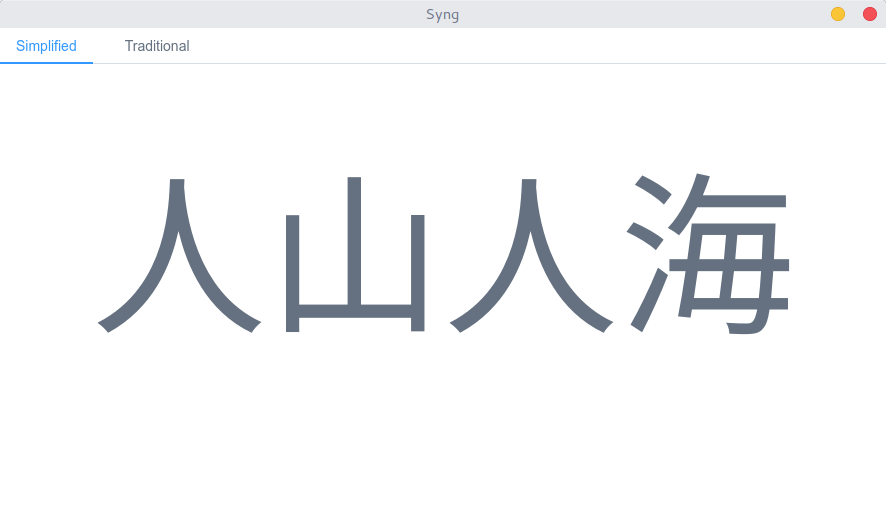
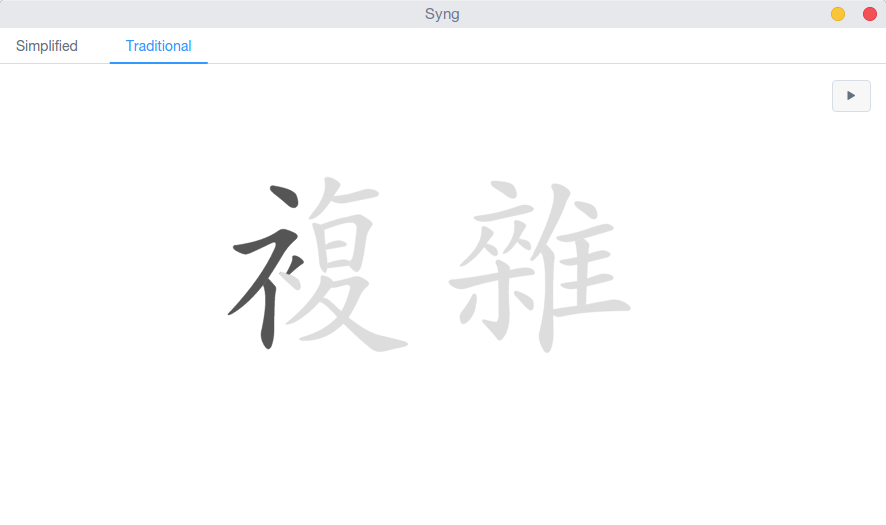
updated website for version 1.1.1

diff --git a/index.html b/index.html
@@ -102,15 +102,13 @@
         </div>
         <div class="row">
           <center>
-            <h3 class="section-title">What's New in Version 1.0.0?</h3>
+            <h3 class="section-title">What's New in Version 1.1.0?</h3>
             <p>
-              Version 1.0.0 is the biggest release of Syng yet! Some new changes include:
+              Version 1.1.0 has several new features and bug fixes, including:
             </p>
             <ul>
-              <li>70% increase in startup time</li>
-              <li>All new user interface</li>
-              <li>New icon</li>
-              <li>Stability improvements</li>
+              <li>Audio Pronunciation</li>
+              <li>Stroke Order Animations</li>
             </ul>
             <p>
               For a full list of changes, please see <a href="https://github.com/sotch-pr35mac/syng/blob/master/CHANGELOG.md">the changelog</a>.
@@ -157,7 +155,7 @@
       <div class="row">
         <div class="four columns">
           <center>
-            <a class="button button-primary download-button" href="https://github.com/sotch-pr35mac/syng/releases/download/v1.0.1/Syng-macOS.dmg" id="download-macos">macOS</a>
+            <a class="button button-primary download-button" href="https://github.com/sotch-pr35mac/syng/releases/download/v1.1.1/Syng-macOS.dmg" id="download-macos">macOS</a>
           </center>
         </div>
         <div class="four columns">
@@ -184,13 +182,13 @@
             <div class="six columns">
               <h6 class="section-title">Linux 64-bit</h6>
               <code class="installer">
-                wget -O- https://goo.gl/ybn3yz | bash
+                wget -O- https://goo.gl/cZCh5c | bash
               </code>
             </div>
             <div class="six columns">
               <h6 class="section-title">Linux 32-bit</h6>
               <code class="installer">
-                wget -O- https://goo.gl/bjguUb | bash
+                wget -O- https://goo.gl/EhCPD9 | bash
               </code>
             </div>
           </div>
@@ -202,12 +200,12 @@
           <div class="row">
             <div class="six columns">
               <center>
-                <a class="button button-primary download-button" href="https://github.com/sotch-pr35mac/syng/releases/download/v1.0.1/Syng-linux-x64.tar.gz">Linux 64-bit</a>
+                <a class="button button-primary download-button" href="https://github.com/sotch-pr35mac/syng/releases/download/v1.1.1/Syng-linux-x64.tar.gz">Linux 64-bit</a>
               </center>
             </div>
             <div class="six columns">
               <center>
-                <a class="button button-primary download-button" href="https://github.com/sotch-pr35mac/syng/releases/download/v1.0.1/Syng-linux-ia32.tar.gz">Linux 32-bit</a>
+                <a class="button button-primary download-button" href="https://github.com/sotch-pr35mac/syng/releases/download/v1.1.1/Syng-linux-ia32.tar.gz">Linux 32-bit</a>
               </center>
             </div>
           </div>
@@ -313,10 +311,10 @@
 			} );
 	</script>
   <script>
-    var win32 = "https://github.com/sotch-pr35mac/syng/releases/download/v1.0.1/Syng-Windows-setup-ia32.exe";
-    var win64 = "https://github.com/sotch-pr35mac/syng/releases/download/v1.0.1/Syng-Windows-setup-x64.exe";
-    var linux32 = "https://github.com/sotch-pr35mac/syng/releases/download/v1.0.1/Syng-linux-ia32.tar.gz";
-    var linux64 = "https://github.com/sotch-pr35mac/syng/releases/download/v1.0.1/Syng-linux-x64.tar.gz";
+    var win32 = "https://github.com/sotch-pr35mac/syng/releases/download/v1.1.1/Syng-Windows-setup-ia32.exe";
+    var win64 = "https://github.com/sotch-pr35mac/syng/releases/download/v1.1.1/Syng-Windows-setup-x64.exe";
+    var linux32 = "https://github.com/sotch-pr35mac/syng/releases/download/v1.1.1/Syng-linux-ia32.tar.gz";
+    var linux64 = "https://github.com/sotch-pr35mac/syng/releases/download/v1.1.1/Syng-linux-x64.tar.gz";
 
     function downloadReady() {
       swal({

diff --git a/README.md b/README.md
@@ -1,12 +1,12 @@
 # __Syng | 词应__
 ##### Dictionary App | 词典应用
-##### v1.0.1
+##### v1.1.1
 [![Commitizen friendly](https://img.shields.io/badge/commitizen-friendly-brightgreen.svg)](http://commitizen.github.io/cz-cli/)
 
 ---
 
 ## __About__
-Syng is a free, open source, Chinese-To-English and English-To-Chinese Dictionary app that makes it easy to lookup words and phrases quickly. Currently Syng works on macOS, Windows, and Linux systems. 
+Syng is a free, open source, Chinese-To-English and English-To-Chinese Dictionary app that makes it easy to lookup words and phrases quickly. Currently Syng works on macOS, Windows, and Linux systems.
 
 ### Name
 Syng is a stylized spelling of cíyīng, the Pinyin for 词应. 词应 has been shorted from 词典应用, literally translating to Dictionary App.
@@ -20,7 +20,7 @@ Syng is a stylized spelling of cíyīng, the Pinyin for 词应. 词应 has been 
 - ___Bookmarks___
     - Syng allows you to save words and searches to your bookmarks, so that you can reference them later, and even create custom vocab lists.
 - __Offline Support__
-    - No internet connection required! 
+    - No internet connection required for most features
 - __Cross-Platform__
     - Mac OS X
     - Windows
@@ -31,16 +31,18 @@ Syng is a stylized spelling of cíyīng, the Pinyin for 词应. 词应 has been 
     - Convert between traditional and simplified characters
 - __Pinyinify__
     - Convert 汉字 into hànzì. Turn characters into pinyin
+- __Character Stroke Animations__
+    - View character stroke order animations to study writing characters
 
 ## __What's new?__
-Syng v1.0.0 is the biggest release yet, with some welcome new changes. For a full list of changes, see [the changelog](https://github.com/sotch-pr35mac/syng/blob/master/CHANGELOG.md).
-1. Brand new user interface
-2. 70% faster load time
-3. Custom vocabulary lists
-4. Notes
-5. New Icon
-6. Pinyinify characters
-7. General stability and performance updates
+Syng v1.1.0 includes a few new features and several bug fixes. For a full list of changes, see [the changelog](https://github.com/sotch-pr35mac/syng/blob/master/CHANGELOG.md).
+1. Audio Pronunciation
+2. Character Stroke Animations
+
+## __Screenshots__
+More screenshots available on [the Syng website](http://syngdict.com).
+
+![image](./assets/homescreen.png)
 
 ## __Installing__
 #### __Linux__
@@ -48,18 +50,18 @@ To install Syng on Linux, you can you use the pre-built installation script by c
 
 For 64-bit systems:
 ```
-wget -O- https://goo.gl/ybn3yz | bash 
+wget -O- https://goo.gl/cZCh5c | bash
 ```
-For 32-bit systems: 
+For 32-bit systems:
 ```
-wget -O- https://goo.gl/bjguUb | bash 
+wget -O- https://goo.gl/EhCPD9 | bash
 ```
 
-Alternatively, if you aren't comfortable running the pre-built installation script, you can install manually by downloading the 64-bit candidate [here](https://github.com/sotch-pr35mac/syng/releases/download/v1.0.1/Syng-linux-x64.tar.gz) and the 32-bit candidate [here](https://github.com/sotch-pr35mac/syng/releases/download/v1.0.1/Syng-linux-ia32.tar.gz) and then following the installation instructions provided.
+Alternatively, if you aren't comfortable running the pre-built installation script, you can install manually by downloading the 64-bit candidate [here](https://github.com/sotch-pr35mac/syng/releases/download/v1.1.1/Syng-linux-x64.tar.gz) and the 32-bit candidate [here](https://github.com/sotch-pr35mac/syng/releases/download/v1.1.1/Syng-linux-ia32.tar.gz) and then following the installation instructions provided.
 #### __macOS__
-To install Syng on macOS, simply download the `.dmg` file from [here](https://github.com/sotch-pr35mac/syng/releases/download/v1.0.1/Syng-macOS.dmg) and then drag and drop the Syng app into your Applications folder.
+To install Syng on macOS, simply download the `.dmg` file from [here](https://github.com/sotch-pr35mac/syng/releases/download/v1.1.1/Syng-macOS.dmg) and then drag and drop the Syng app into your Applications folder.
 #### __Windows__
-To install Syng on Windows, you can download the 64-bit installer from [here](https://github.com/sotch-pr35mac/syng/releases/download/v1.0.1/Syng-Windows-setup-x64.exe) and the 32-bit installer from [here](https://github.com/sotch-pr35mac/syng/releases/download/v1.0.1/Syng-Windows-setup-ia32.exe) and use it to install Syng.
+To install Syng on Windows, you can download the 64-bit installer from [here](https://github.com/sotch-pr35mac/syng/releases/download/v1.1.1/Syng-Windows-setup-x64.exe) and the 32-bit installer from [here](https://github.com/sotch-pr35mac/syng/releases/download/v1.1.1/Syng-Windows-setup-ia32.exe) and use it to install Syng.
 
 ## __Built On__
    - [Electron](http://electron.atom.io)
@@ -76,31 +78,17 @@ To install Syng on Windows, you can download the 64-bit installer from [here](ht
       - Modified to work using hashmaps and support English, and pinyin search functionality.
    - [Franc](https://github.com/wooorm/franc)
       - Language Detection for Search
+   - [hanzi-writer](https://github.com/chanind/hanzi-writer) by [chanind](https://github.com/chanind)
+      - Character Stroke Animations
 
 ## __Developers Welcome__
-If you're interested in contributing to Syng, you can checkout [the Roadmap](https://github.com/sotch-pr35mac/syng/blob/master/ROADMAP.md), or feel free to [contact me](mailto://p.wanstobas@gmail.com) and we can build great software together. 
+If you're interested in contributing to Syng, you can checkout [the Roadmap](https://github.com/sotch-pr35mac/syng/wiki/Roadmap), or feel free to [contact me](mailto://p.wanstobas@gmail.com) and we can build great software together.
 
-## __Contribute__
-This is a [Commitizen Friendly](https://github.com/commitizen/cz-cli) Repository. When contributing please use commitizen when committing changes.
-You can install commitizen using npm:
-```
-npm install -g commitizen
-```
-1. Fork it!
-2. Create a branch `git checkout -b my-feature`
-3. Commit your changes `git cz`
-4. Submit a pull request
+## __Contributing / Getting Started__
+If you're interested in contributing to Syng, you can find a guide to getting started [here](https://github.com/sotch-pr35mac/syng/wiki/Getting-Started) in the [Syng wiki](https://github.com/sotch-pr35mac/syng/wiki). This guide outlines the development stack, project structure, and how to create a feature branch.
 
-## __Getting Started__
-1. First go to the project directory
-    `cd /path/to/project/`
-2. Install the dependencies
-    `npm install`
-3. Run Syng
-    `npm start`
-
-## __Contributors__
+## __Maintainers__
 - [Preston Wang-Stosur-Bassett](http://www.stosur.info)
 
 ## __License__
-This software is licensed under the [GNU Public License 3](https://www.gnu.org/licenses/gpl-3.0.en.html).
+This software is licensed under the [GNU Public License 3](https://www.gnu.org/licenses/gpl-3.0.en.html). The file at `app/src/db/cc-cedict.json` is licensed under the [Creative Commons Attribution-Share Alike 3.0 License](http://creativecommons.org/licenses/by-sa/3.0/).
